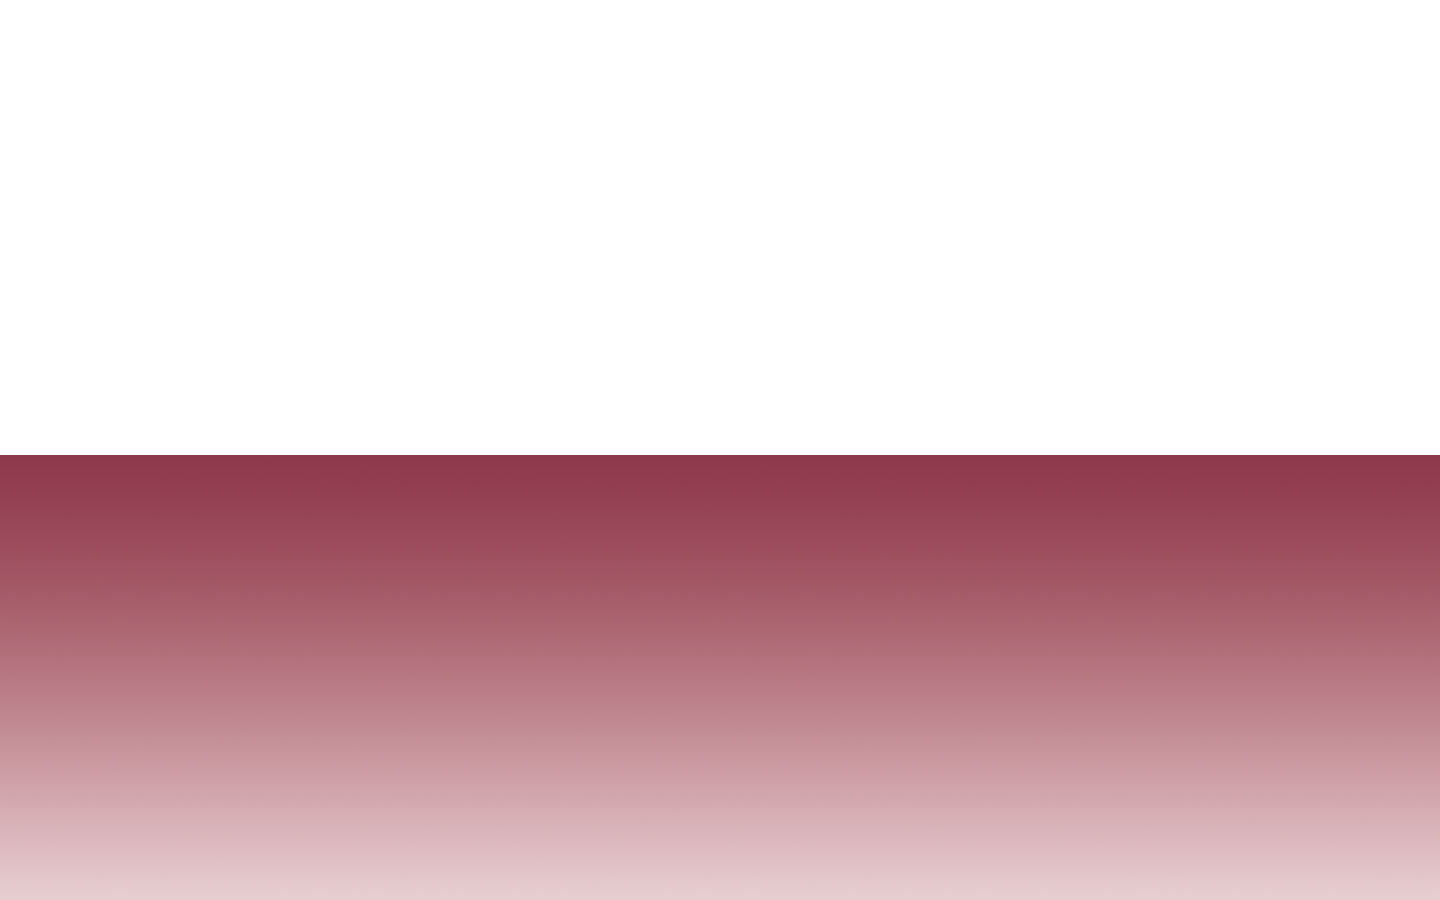
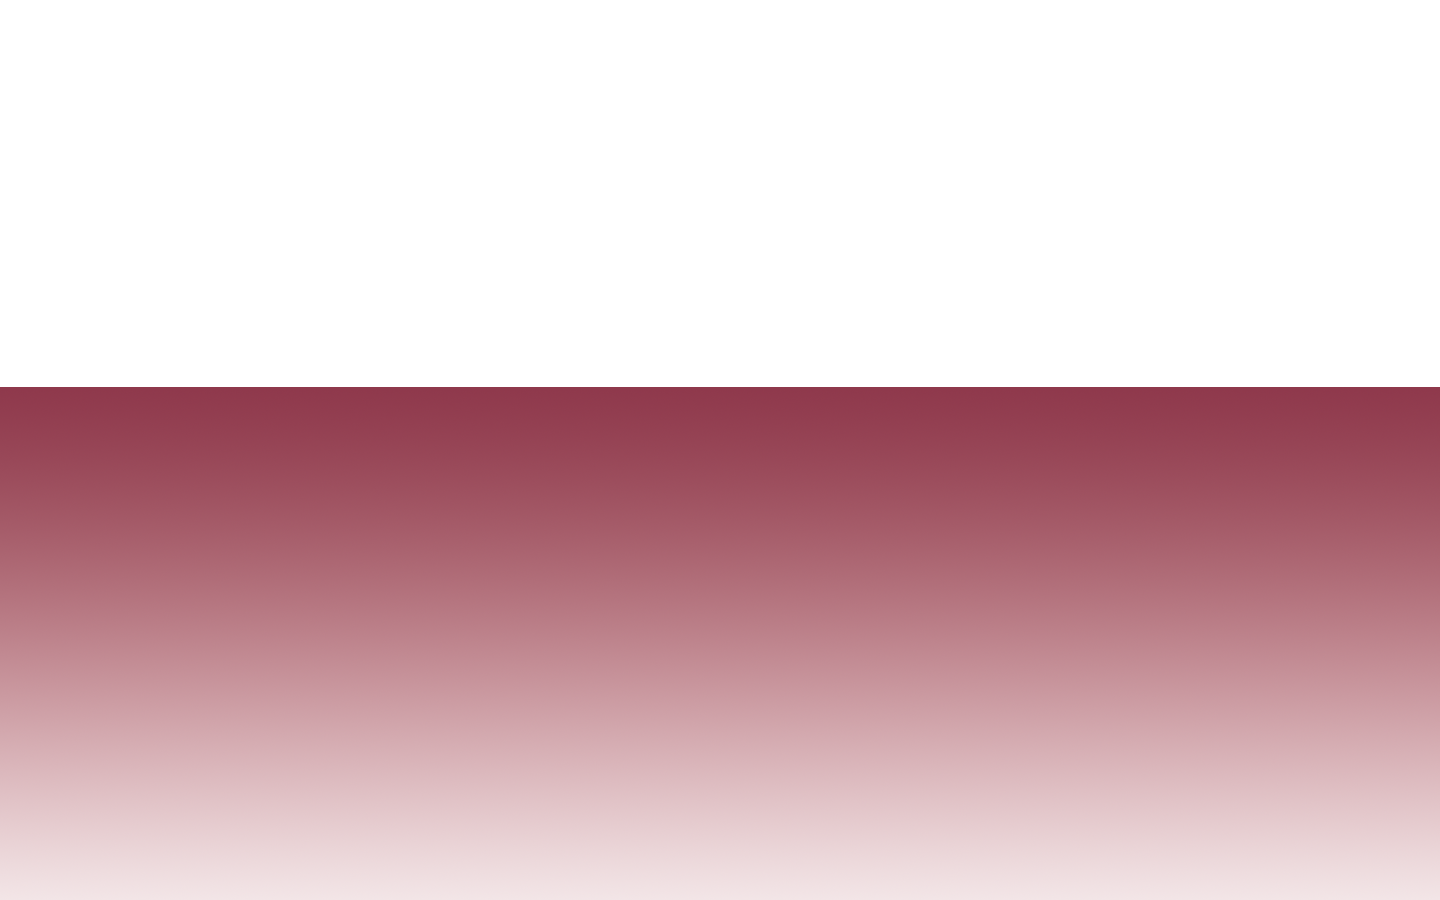
Some CSS and new Images

diff --git a/src/Pages/Home.jsx b/src/Pages/Home.jsx
@@ -24,7 +24,7 @@ function Home() {
                     }} />
                 <ParallaxLayer
                     offset={0}
-                    speed={0.2}
+                    speed={0.45}
                     style={{
                         backgroundImage: `url(${sea})`,
                         backgroundSize: 'cover',
@@ -34,7 +34,7 @@ function Home() {
 
                 <ParallaxLayer
                     offset={0}
-                    speed={0.7}
+                    speed={0.65}
                     style={{
                         backgroundImage: `url(${mountains})`,
                         backgroundSize: 'cover',
@@ -56,6 +56,14 @@ function Home() {
                         backgroundSize: 'cover',
 
                     }} />
+                                    <ParallaxLayer
+                    offset={0}
+                    speed={1}
+                    style={{
+
+                    }} >
+                    <h1 className='title'>Natural Aquatics</h1>
+                </ParallaxLayer>
                 <ParallaxLayer
                     offset={0.9999999999999}
                     speed={1}

diff --git a/src/css/Navbar.css b/src/css/Navbar.css
@@ -1,26 +1,27 @@
-ul {
+
+
+
+  ul {
     list-style-type: none;
     margin: 0;
     padding: 0;
     overflow: hidden;
     margin-bottom: 10%;
-
+    display: flex;
+    justify-content: center;
   }
   
   li {
-    float: left;
     color: rgb(101, 98, 98);
+    display: block;
+    padding: 12px;
+    background-color: #070721;
+    float: left;
 
   }
   
-  li{
-    display: block;
-    padding: 8px;
-    background-color: #070721;
-  }
-
   li:hover {
     background-color: #0b779e;
     color: white;
-
   }
+  

diff --git a/src/css/Home.css b/src/css/Home.css
@@ -62,9 +62,13 @@
   }
 
   
-#test{ 
-  background-color: #210002;
-}
-#test2{ 
-  background-color:aqua
-}
+  .title {
+    position: absolute;
+    top: 40%;
+    left: 50%;
+    transform: translate(-50%, -50%);
+    font-size: 10rem; /* Adjust the font size as desired */
+    text-shadow: 2px 2px 4px rgba(0, 0, 0, 0.5); /* Adds a drop shadow effect */
+    color: #15e6cd	 /* Sets the text color to orange */
+  }
+  

diff --git a/src/components/Navbar.jsx b/src/components/Navbar.jsx
@@ -9,7 +9,7 @@
     
         return(
         <div>
-            <ul>
+            <ul className='navbar'>
                 <Link to='/'><li>Home</li></Link>
                 <Link to='/Rechner/Model'><li>Rechner</li></Link>
                 <Link to='/About'><li>About</li></Link>
